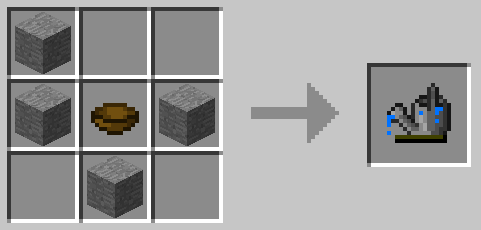
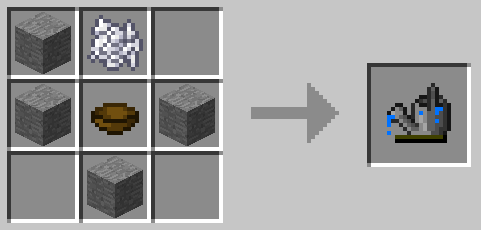
updated images

Changed region(s): [[0.1871, 0.0609, 0.3119, 0.3348]]

diff --git a/README.md b/README.md
@@ -1,7 +1,17 @@
+1.12.2-0.4.3
+
+  * Updated for 1.12.2.
+  * Added bonemeal to default recipes.
+
 0.4.0
+
   * Added: gold watercan - grows crops at the slowest speed, but grows flowers on grass very fast (please refresh configs for kor-watercan or there will be no recipe for this new can)
+
 0.3.0
+
   * Fix: all watercans grow things at the same speed (really fast - was hardcoded for testing, forgot to remove it)
   * Fix: texture alignment
+
 0.2.0
+
   * Initial release
